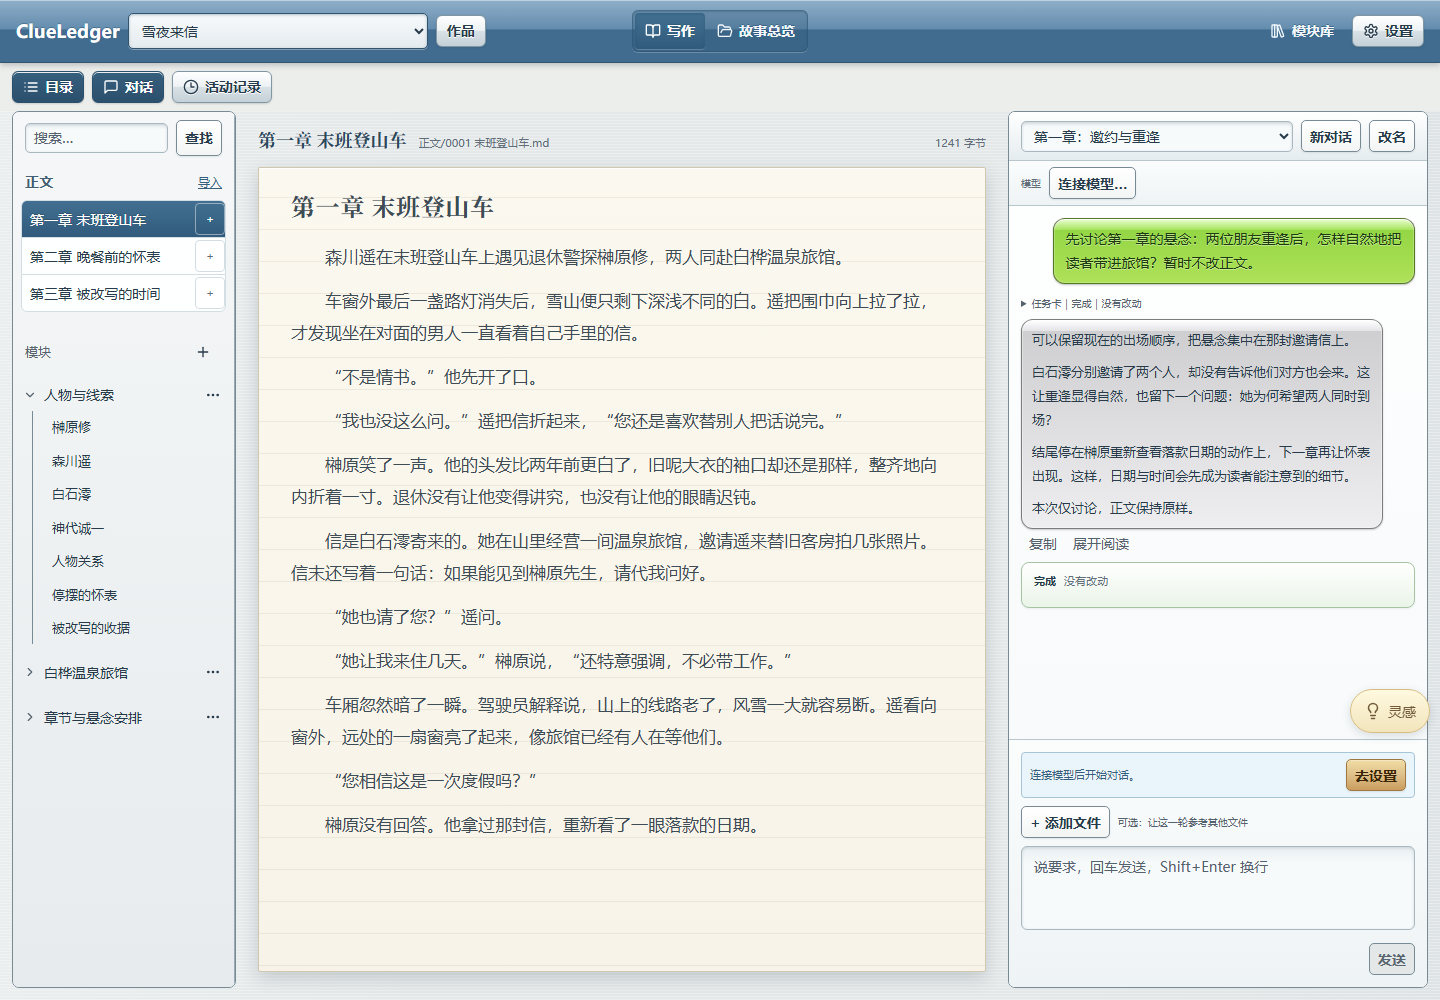
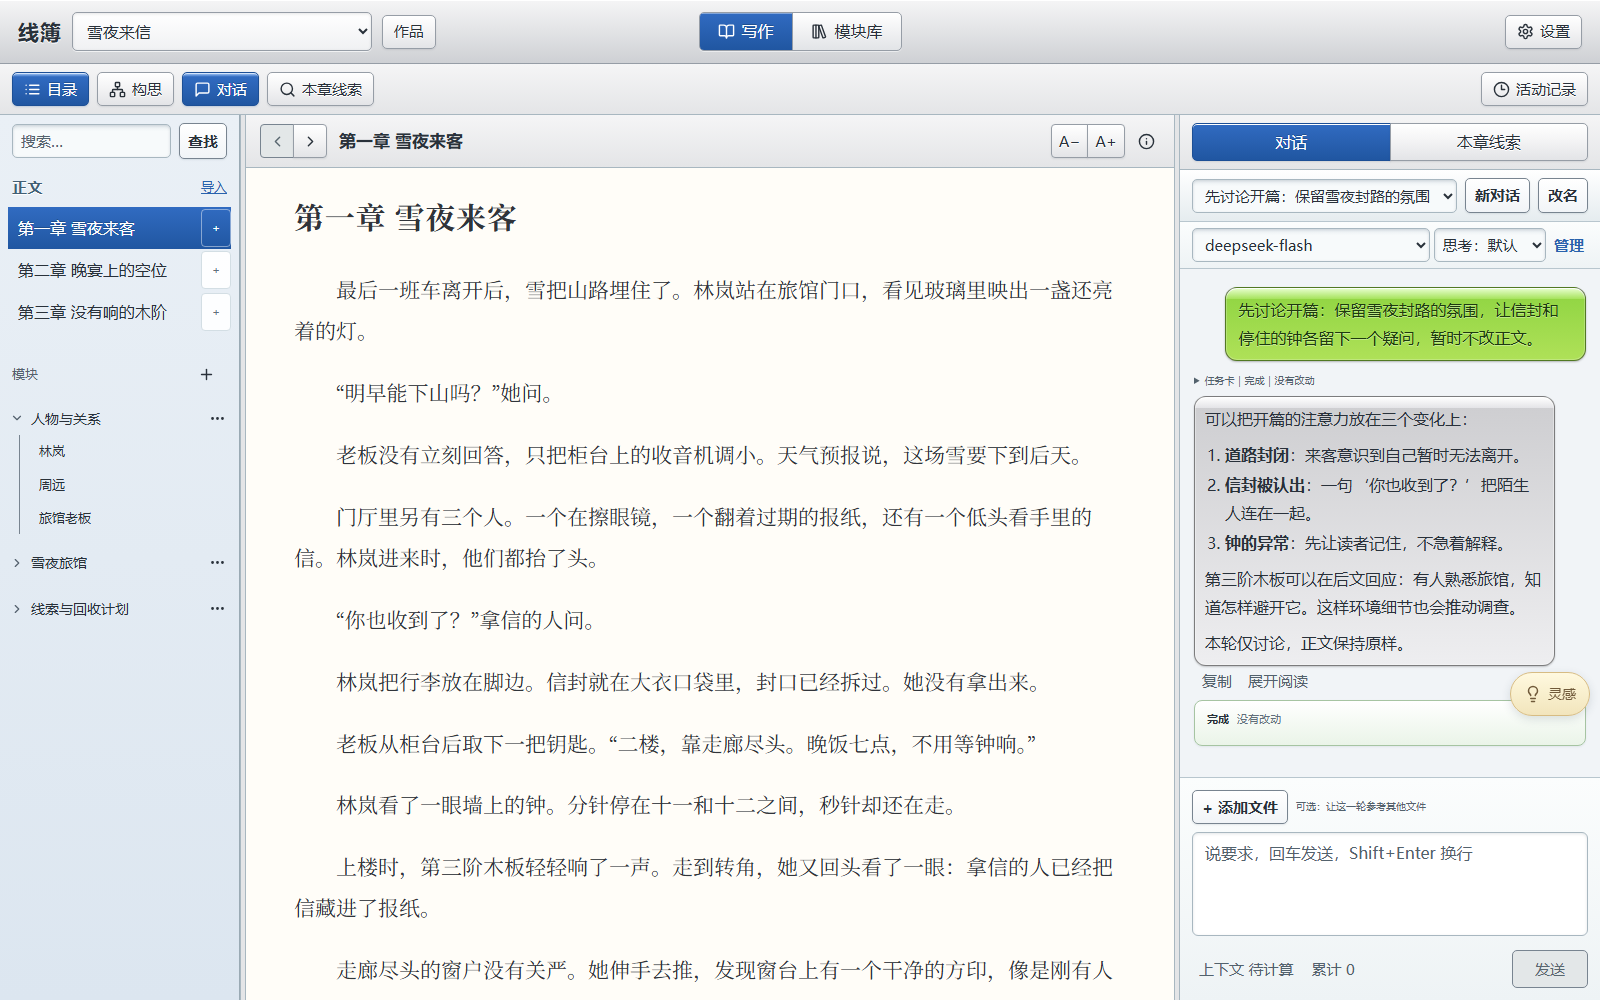
docs: 更新当前界面截图与截图生成脚本

Changed region(s): [[0.0, 0.0, 1.0, 1.0], [0.9375, 0.93, 1.0, 0.992], [0.0312, 0.713, 0.0938, 0.744]]

diff --git a/scripts/readme_fixture.py b/scripts/readme_fixture.py
@@ -1,0 +1,90 @@
+"""README 截图的隔离示例正文与对话；不调用模型。"""
+
+import sys
+from pathlib import Path
+
+from hastings.workspace.files import Workspace
+from hastings.workspace.state import ConversationStore, conversation_root
+
+book, state, wid = Path(sys.argv[1]), Path(sys.argv[2]), sys.argv[3]
+workspace = Workspace.open(book)
+chapters = [
+    (
+        "0001 雪夜来客.md",
+        """# 第一章 雪夜来客
+
+最后一班车离开后，雪把山路埋住了。林岚站在旅馆门口，看见玻璃里映出一盏还亮着的灯。
+
+“明早能下山吗？”她问。
+
+老板没有立刻回答，只把柜台上的收音机调小。天气预报说，这场雪要下到后天。
+
+门厅里另有三个人。一个在擦眼镜，一个翻着过期的报纸，还有一个低头看手里的信。林岚进来时，他们都抬了头。
+
+“你也收到了？”拿信的人问。
+
+林岚把行李放在脚边。信封就在大衣口袋里，封口已经拆过。她没有拿出来。
+
+老板从柜台后取下一把钥匙。“二楼，靠走廊尽头。晚饭七点，不用等钟响。”
+
+林岚看了一眼墙上的钟。分针停在十一和十二之间，秒针却还在走。
+
+上楼时，第三阶木板轻轻响了一声。走到转角，她又回头看了一眼：拿信的人已经把信藏进了报纸。
+
+走廊尽头的窗户没有关严。她伸手去推，发现窗台上有一个干净的方印，像是刚有人拿走了一张照片。
+""",
+    ),
+    (
+        "0002 晚宴上的空位.md",
+        "# 第二章 晚宴上的空位\n\n"
+        "七点钟，餐桌旁多摆了一把椅子。老板说还有一位客人没下来。\n\n"
+        "林岚数了数杯子。少的不是人，是一只杯子。\n",
+    ),
+    (
+        "0003 没有响的木阶.md",
+        "# 第三章 没有响的木阶\n\n"
+        "午夜，林岚听见走廊尽头的门开了。有人下楼，却没有踩响第三阶木板。\n\n"
+        "天亮以后，她在雪地里找到了半张照片。\n",
+    ),
+]
+for name, body in chapters:
+    workspace.write(f"正文/{name}", body, expected_digest=None)
+store = ConversationStore(conversation_root(state, wid))
+info = store.create_with_first_turn(
+    text="先讨论开篇：保留雪夜封路的氛围，让信封和停住的钟各留下一个疑问，暂时不改正文。",
+    request_key="readme-example",
+    turn_id="t-example",
+)
+reply = (
+    "可以把开篇的注意力放在三个变化上：\n\n"
+    "1. **道路封闭**：来客意识到自己暂时无法离开。\n"
+    "2. **信封被认出**：一句‘你也收到了？’把陌生人连在一起。\n"
+    "3. **钟的异常**：先让读者记住，不急着解释。\n\n"
+    "第三阶木板可以在后文回应：有人熟悉旅馆，知道怎样避开它。"
+    "这样环境细节也会推动调查。\n\n本轮仅讨论，正文保持原样。"
+)
+message = {"turn_id": "t-example", "message_id": "m-example"}
+block = {**message, "block_id": "m-example:text:0", "kind": "text", "order": 0}
+store.append_batch(
+    info.conversation_id,
+    [
+        {"type": "assistant_started", **message},
+        {"type": "assistant_block_started", **block},
+        {"type": "assistant_block_delta", **block, "part": 0, "text": reply},
+        {
+            "type": "assistant_block_finished",
+            **block,
+            "text": reply,
+            "last_part": 0,
+            "completion": "completed",
+        },
+        {"type": "assistant_message", **message, "text": reply, "completion": "completed"},
+        {"type": "assistant_finished", **message, "completion": "completed"},
+        {
+            "type": "run_finished",
+            "turn_id": "t-example",
+            "status": "completed",
+            "recording": "no_change",
+        },
+    ],
+)

diff --git a/README.en.md b/README.en.md
@@ -12,7 +12,7 @@ ClueLedger is built on [Tau Agent](https://github.com/huggingface/tau), with a w
 
 ![ClueLedger writing workspace: chapters and modules on the left, the manuscript in the center, and a story discussion on the right](docs/screenshots/readme/writing.png)
 
-*Screenshots use example content in the Chinese-language interface. The structure screenshot demonstrates multiple storylines and frozen column headings. English feature names below describe the corresponding Chinese controls.*
+*Screenshots were captured on 2026-10-31 using the current Chinese-language interface and the sample novel Letters on a Snowy Night (《雪夜来信》). English feature names below describe the corresponding Chinese controls.*
 
 [Capture ideas](#capture-ideas) · [Write through conversation](#write-through-conversation) · [Save and reuse story material](#save-and-reuse-story-material) · [Review the whole story](#review-the-whole-story) · [Get started](#get-started)
 
@@ -68,13 +68,15 @@ Storylines appear in columns, with stages progressing downward. Each card shows 
 
 Column headings stay at the top of the canvas as you scroll down. They follow horizontal movement and zoom to stay aligned with their cards. Expand **Goals and obstacles (目标与阻力)**, focus on a stage, or use **Focus on Structure (专注构思)** for more space. Cards are arranged automatically; pan, scroll, and zoom the whole canvas to navigate.
 
-![Frozen storyline headings remain visible and aligned with their node columns while scrolling through the structure](docs/screenshots/readme/story-structure.png)
+![Multiple storylines, stages, a shared convergence, and book-wide clues in the current structure view](docs/screenshots/readme/story-structure.png)
 
 ### Connect plans to clues and manuscript evidence
 
-After selecting a node, choose **View related clues (查看相关线索)** to see its arrangements on the right. With no node selected, browse book-wide clues. Follow a clue to another planned use or an existing manuscript passage, then return to your place in the structure.
+After selecting a node, open **Book-wide clues (全书线索)** to see its arrangements on the right. With no node selected, browse book-wide clues. Follow a clue to another planned use or an existing manuscript passage, then return to your place in the structure.
 
 Author truth, future plans, and material already written in the manuscript are presented separately. You can plan clues before drafting prose; planned introductions and resolutions do not become manuscript facts automatically.
+
+![A selected structure node alongside its clue plan and book-wide uses](docs/screenshots/readme/story-clues.png)
 
 Larger creation tasks can prepare a draft in batches before committing the complete structure. If a task needs attention, its draft remains with the original task. Review required constraints and their strength before confirming and continuing. Whether a setting or style preference becomes a requirement remains your decision.
 

diff --git a/README.md b/README.md
@@ -12,7 +12,7 @@
 
 ![线簿写作台：左侧浏览章节和模块，中间阅读正文，右侧讨论情节](docs/screenshots/readme/writing.png)
 
-*以下截图均为示例内容；构思截图展示多线布局与冻结表头。*
+*以下截图于 2026-10-31 使用当前界面与示例作品《雪夜来信》重新拍摄。*
 
 [随手记灵感](#随手记灵感) · [通过对话推进写作](#通过对话推进写作) · [保存与复用设定](#保存与复用设定) · [回看故事全貌](#回看故事全貌) · [开始使用](#开始使用)
 
@@ -68,13 +68,15 @@
 
 故事线表头固定在画布顶部，向下浏览时仍能看到名称；横向移动和缩放时，表头与对应列同步。可以展开“目标与阻力”、按阶段收起其他内容，或使用“专注构思”扩大阅读空间。卡片按结构自动排布，整张画布可平移、滚动和缩放。
 
-![构思图下滑后的冻结表头：故事线名称常驻顶部，并与节点列对齐](docs/screenshots/readme/story-structure.png)
+![多线构思：阶段、故事线、跨列汇合与全书线索](docs/screenshots/readme/story-structure.png)
 
 ### 从构思追踪线索与正文依据
 
-选中节点后，点击“查看相关线索”，右侧显示此处涉及的安排；未选节点时可以浏览全书线索。沿线索打开其他使用位置，或查看已有正文依据，再返回原来的构思位置。
+选中节点后，打开“全书线索”，右侧显示此处涉及的安排；未选节点时可以浏览全书线索。沿线索打开其他使用位置，或查看已有正文依据，再返回原来的构思位置。
 
 作者真相、未来计划与正文实际写出的内容分别呈现。尚无正文时可以先设计线索；计划中的埋设与回收不会自动成为已经发生的正文事实。
+
+![选中构思节点后，查看相关线索的作者计划及全书使用位置](docs/screenshots/readme/story-clues.png)
 
 较大的创建任务可以分批准备草稿，完整核对后再整体提交。需要处理时，草稿会保留在原任务中；必需约定须核对内容及强度后确认，再继续。背景或风格上的偏好是否作为必需要求，仍由作者决定。
 

diff --git a/docs/screenshots/readme/README.md b/docs/screenshots/readme/README.md
@@ -1,0 +1,30 @@
+# README 截图
+
+更新：2026-10-31。当前界面，1600 × 1000，示例作品《雪夜来信》。
+
+| 文件 | 场景 |
+|---|---|
+| writing.png | 章节、模块目录与开篇讨论 |
+| ideas.png | 灵感输入与最近记录 |
+| module-library.png | 模块列表与选中内容预览 |
+| story-structure.png | 三条故事线、阶段、汇合与全书线索 |
+| story-clues.png | 选中节点、冻结表头与相关线索计划 |
+
+所有内容为截图夹具；正文、对话、模块、灵感及结构均由脚本准备，不调用在线或本地模型，不使用作者真实作品。截图由当前页面直接生成，没有替换文字或合成界面。
+
+在仓库根目录运行。先构建前端，并使用全新的隔离目录启动服务：
+
+```powershell
+npm --prefix frontend run build
+uv run python -m hastings.server --port 8961 --state-dir data/test-tmp/readme-capture/state --library-dir data/test-tmp/readme-capture/library --static-dir frontend/dist
+```
+
+另一个终端运行：
+
+```powershell
+node scripts/capture_readme_screenshots.cjs http://127.0.0.1:8961 data/test-tmp/readme-capture
+```
+
+脚本检查正文、对话、模块预览、构思节点及线索详情均已显示，再写入本目录五张图片；运行摘要保存在隔离目录的 capture.json。复用已经生成的隔离示例时，可将作品 ID 作为最后一个参数，只重新截图。不要指向日常使用的服务或状态目录。
+
+本次在全新隔离目录中完整生成五张截图，逐张检查界面。已移除不再由中英文 README 引用的旧 story-overview.png 与 characters.png。此轮仅更新文档、截图和夹具，不修改产品代码，未运行后端全量测试。
